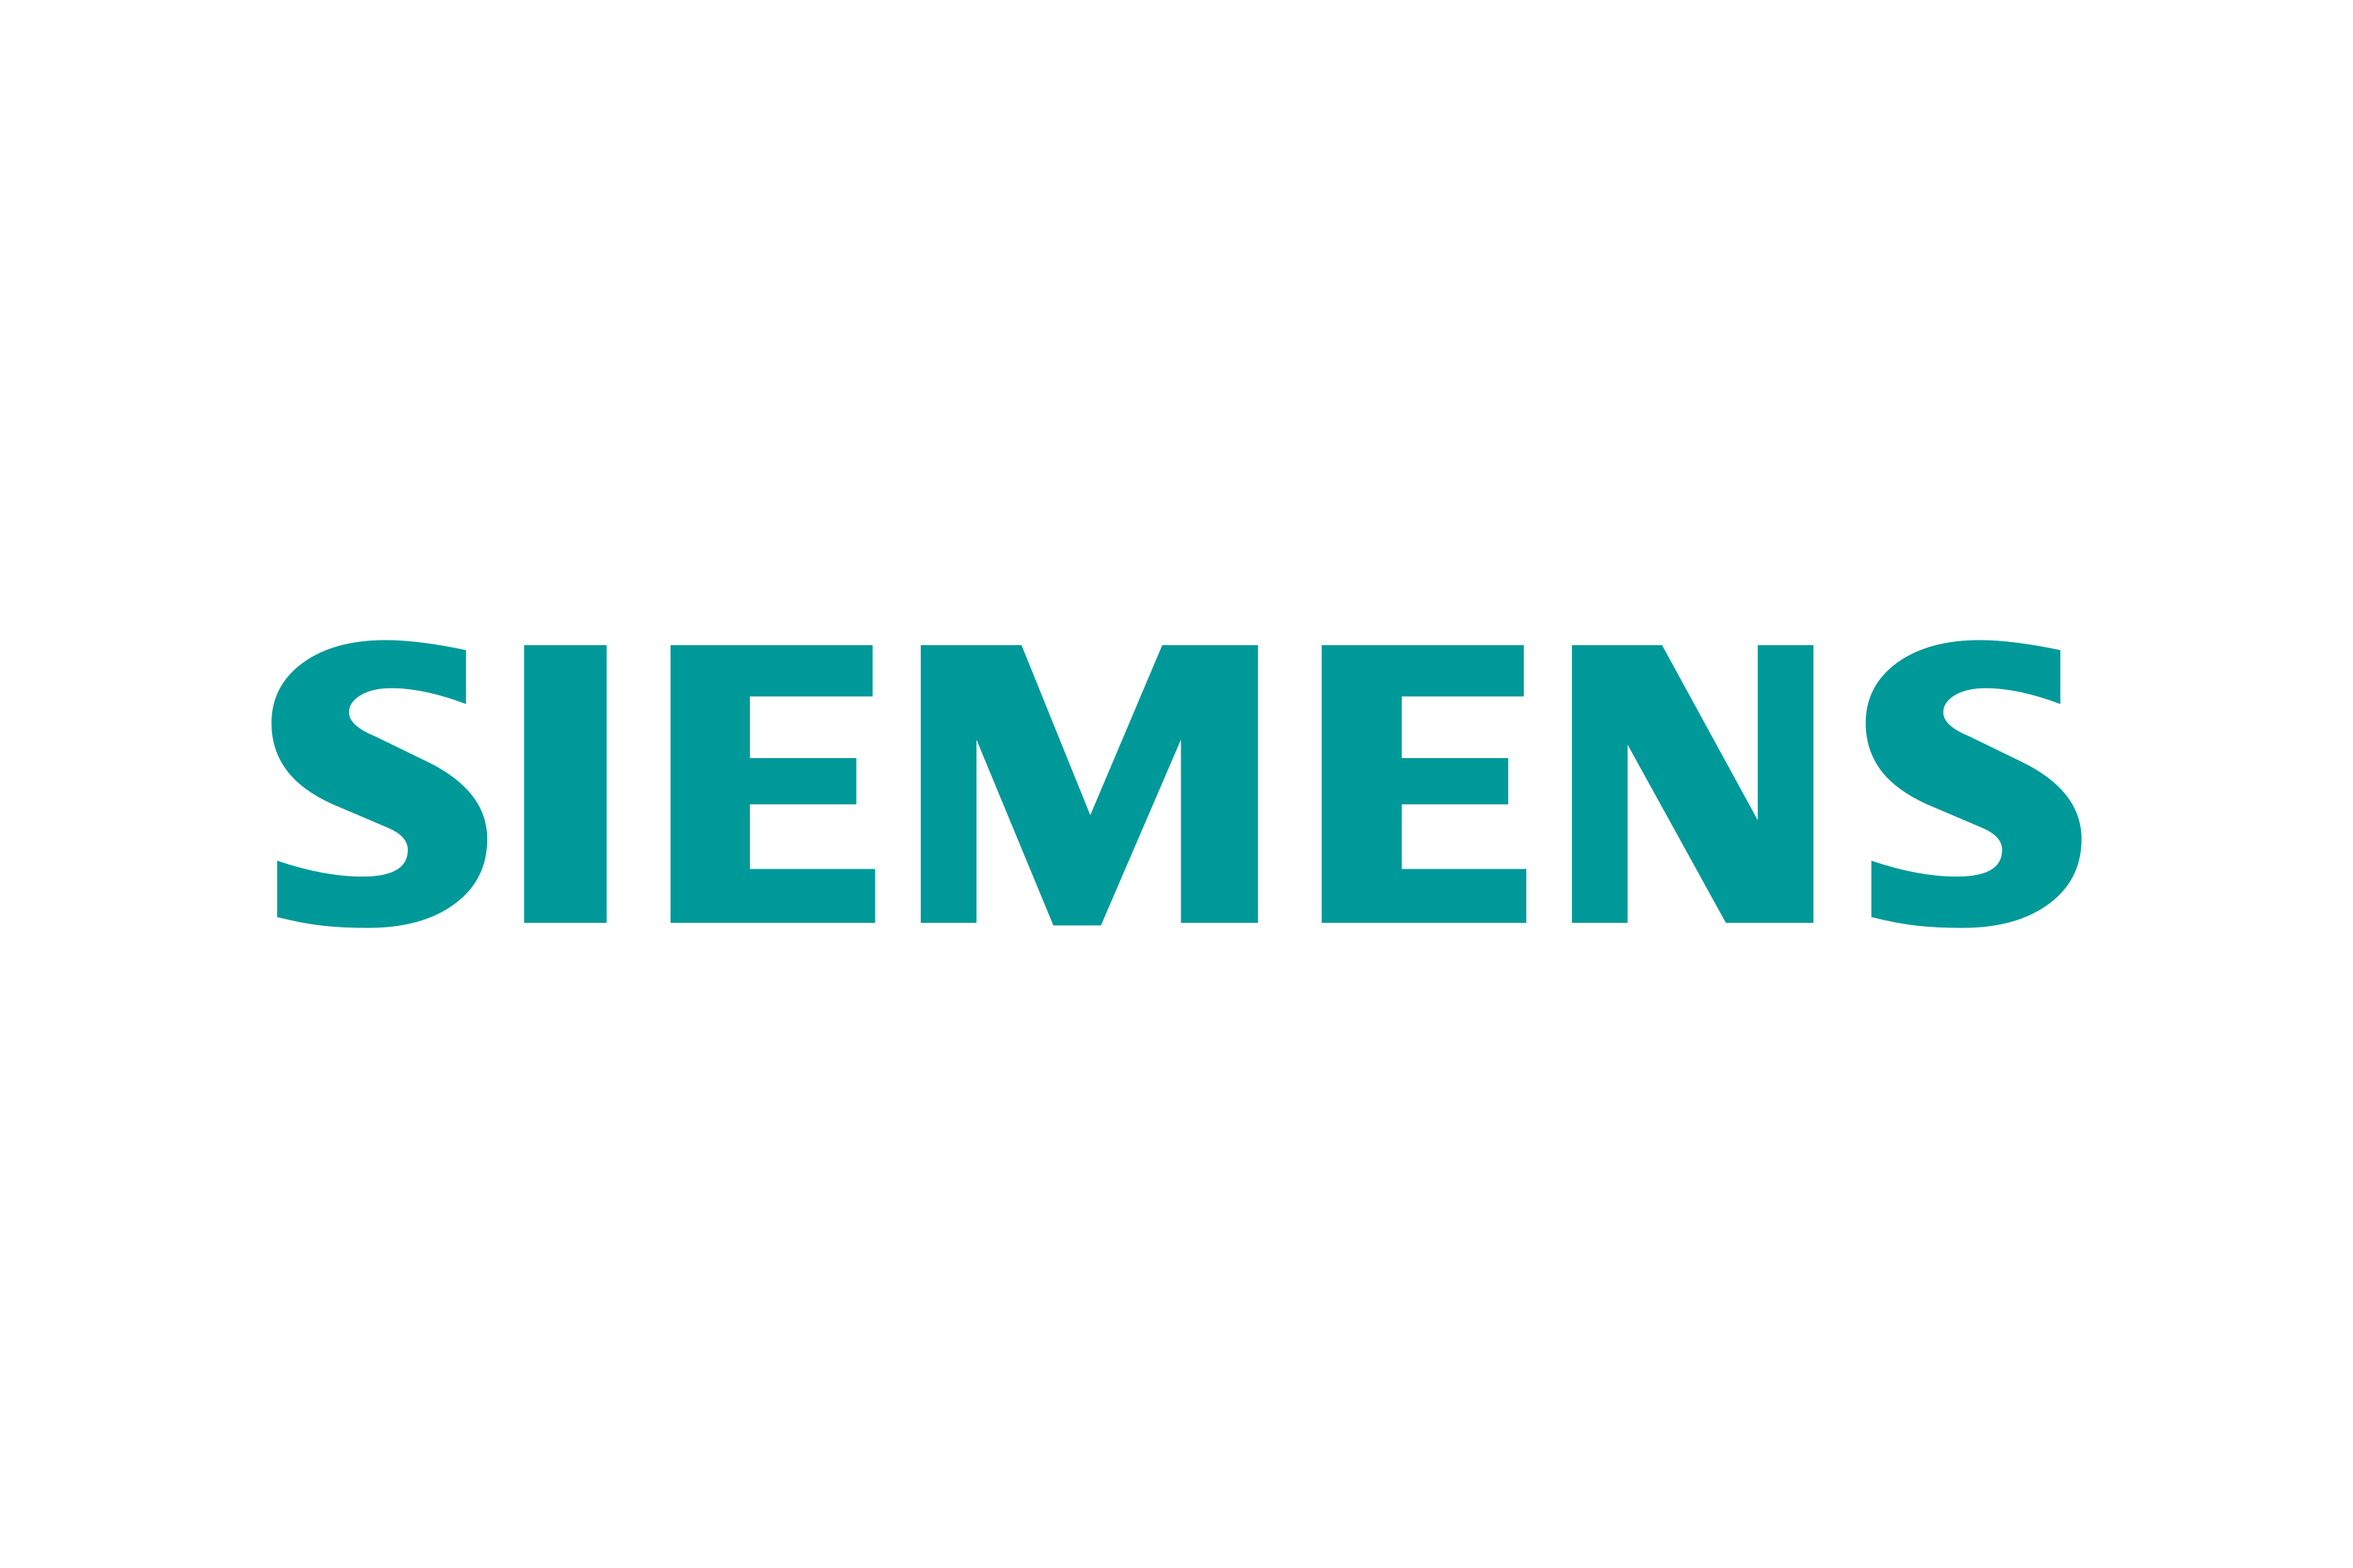
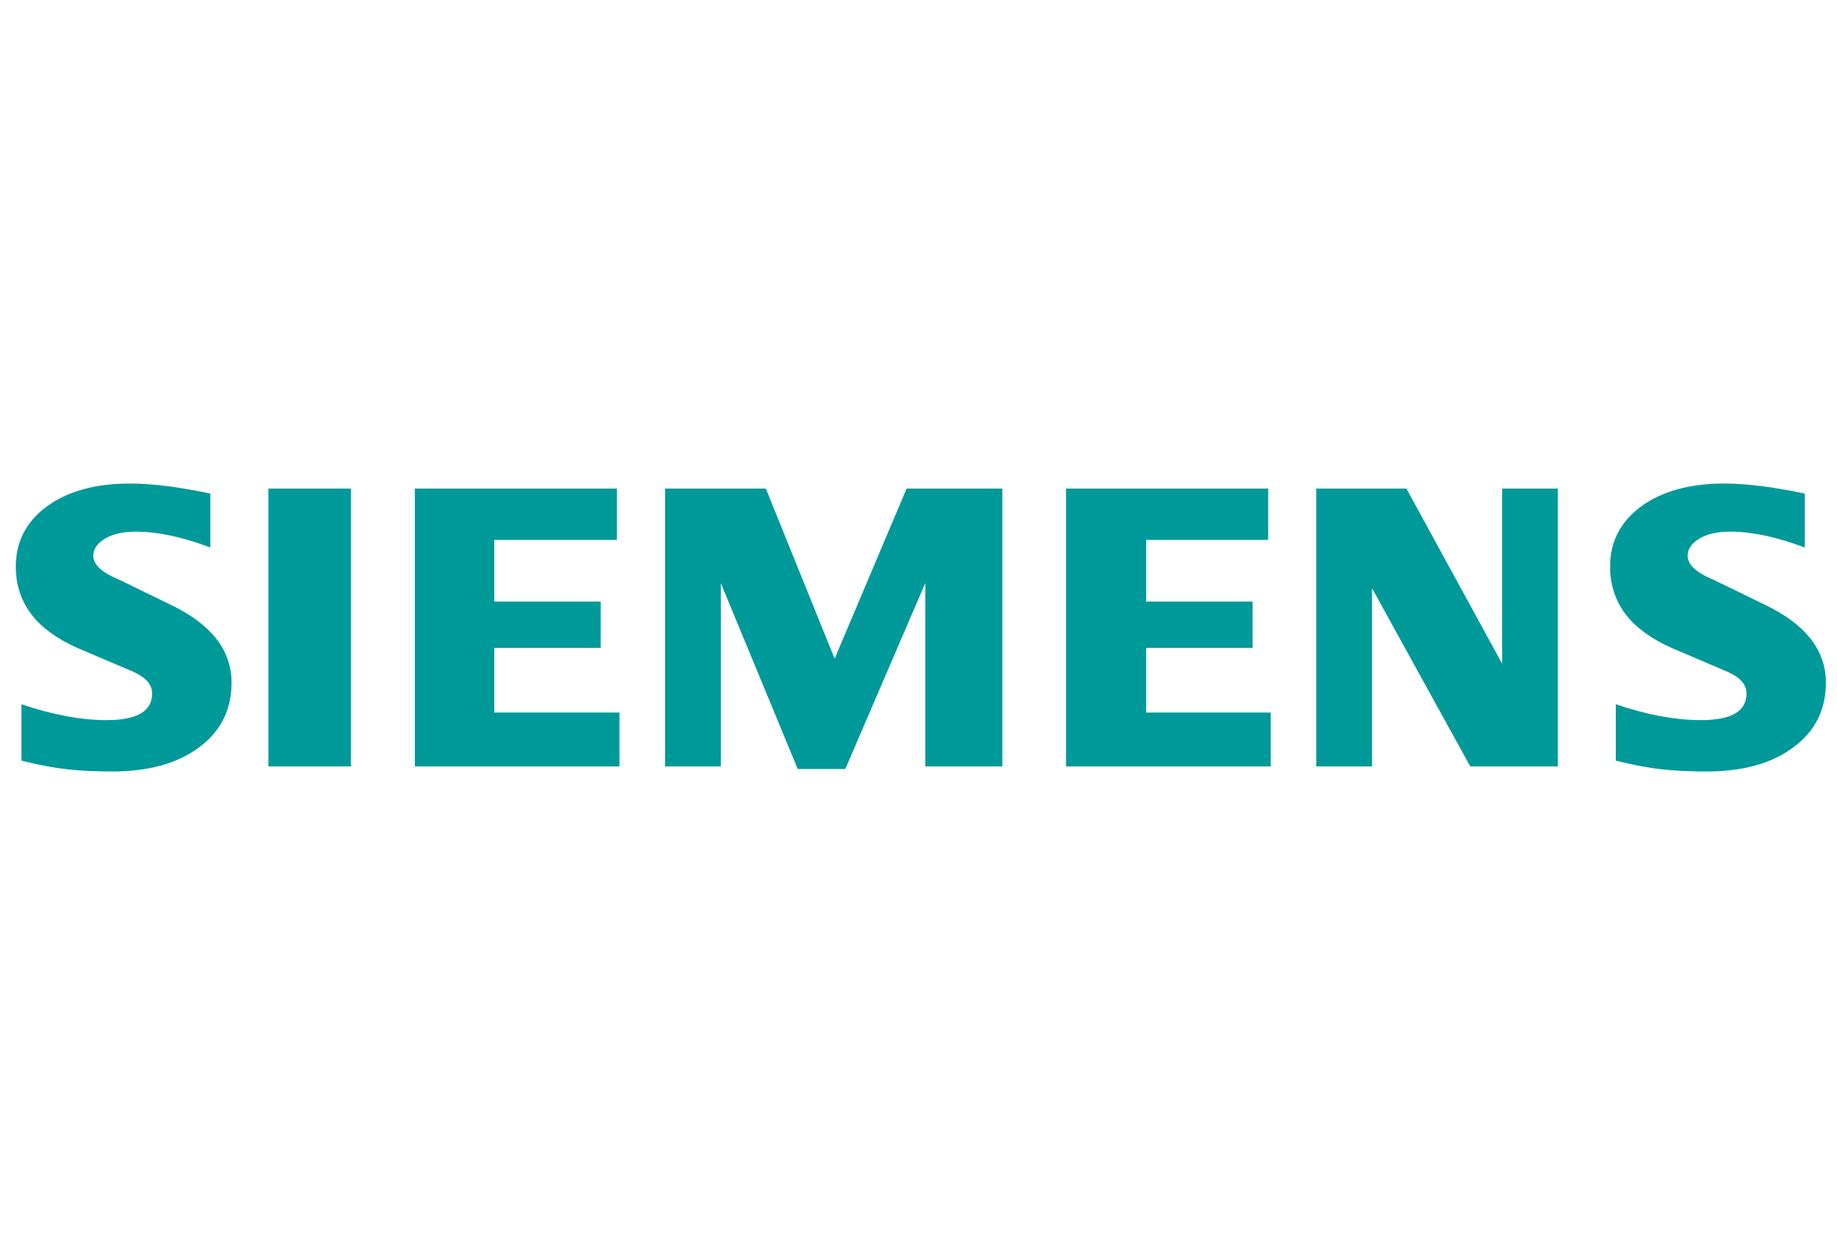
main changes

Changed region(s): [[0.0, 0.375, 0.9974, 0.625]]

diff --git a/index.html b/index.html
@@ -34,10 +34,11 @@
   <style>
     /* Style the header container for flex alignment on mobile */
     .header-container {
+      background-color: #0c9494;
       display: flex;
       justify-content: space-between;
       align-items: center;
-      padding: 1em 2em;
+      padding: 0.5em 2em;
     }
 
     /* Default (desktop) styles */
@@ -140,25 +141,35 @@
   </header>
 
   <main>
-    <!-- Home Section -->
-    <section id="home">
-      <div class="home-content">
-        <div class="home-text">
-          <h1>Welcome to Symatrix Industrial Controls</h1>
-          <h2 style="font-size: large; color:cornflowerblue;">Approved Channel Partner for L.V. Switchgear, Motors and Industrial Automation.</h2>
-          <p>
-            We specialize in providing top-notch solutions for switchgears,
-            motors, Drives, PLC, Ind Automation, VCBs, CNC Automation, Servo Motors and industrial Automation. Discover how we can empower your
-            industry with innovative technology and reliable support.
-          </p>
-          <a href="products.html" class="cta-button">Explore Our Products</a>
-        </div>
-        <div class="home-image">
-          <!-- <img src="source/1st section page/hero_home_image-removebg.png" alt="Industrial Automation" /> -->
-          <img src="source/1st section page/industrial-controls-circuit-protection.png" alt="Industrial Automation Image 2" />
-        </div>
-      </div>
-    </section>
+
+  <section id="home">
+  <!-- Logo placed at top-right -->
+  <div class="home-logo">
+    <img src="source/brands/siemens new.png" alt="Company Logo" />
+  </div>
+
+  <div class="home-content">
+    <div class="home-text">
+      <h1>Welcome to Symatrix Industrial Controls</h1>
+      <h2>Approved Channel Partner for L.V. Switchgear, Motors and Industrial Automation.</h2>
+      <p>
+        We specialize in providing top-notch solutions for switchgears, motors,
+        drives, PLC, industrial automation, VCBs, CNC automation, servo motors
+        and more. Discover how we can empower your industry with innovative
+        technology and reliable support.
+      </p>
+      <a href="products.html" class="cta-button">Explore Our Products</a>
+    </div>
+
+    <div class="home-image">
+      <img
+        src="source/1st section page/industrial-controls-circuit-protection.png"
+        alt="Industrial Automation Image"
+      />
+    </div>
+  </div>
+</section>
+
 
     <!-- (PRODUCTS SECTION REMOVED — now in products.html) -->
 
@@ -183,8 +194,8 @@
           <h3>Eaton</h3>
         </div>
         <div class="brand siemens-logo">
-          <img src="source/brands/siemens new.png" alt="Siemens" />
-          <h3>Siemens</h3>
+          <img src="source/brands/Siemens.png" alt="Siemens" />
+          <h4>L.V. Switchgear & Motors</h4>
         </div>
         <div class="brand">
             <img src="source/brands/l&t switchgear.svg" alt="l&t switchgear">

diff --git a/styles.css b/styles.css
@@ -83,7 +83,7 @@ header {
 }
 
 .logo img {
-  max-height: 50px;
+  max-height: 60px;
   width: auto;
 }
 
@@ -250,18 +250,50 @@ main {
   font-size: 3rem;
   margin-bottom: 20px;
   line-height: 1.2;
-  color: var(--color-text);
+  color: #004D40; /* Darker shade for better contrast */ 
+  text-shadow: 1px 1px 2px rgba(0, 0, 0, 0.2);
 }
 .home-text h2 {
   font-size: 1.8rem;
   margin-bottom: 20px;
-  color: var(--color-accent);
+  color: #0c9494;
+  text-shadow: 1px 1px 2px rgba(0, 0, 0, 0.2);
 }
 .home-text p {
   font-size: 1.1rem;
   margin-bottom: 20px;
   color: #555;
 }
+
+/* ===== HOME LOGO (add to bottom of file) ===== */
+
+/* Position the logo in the top-right corner of the #home section */
+.home-logo {
+  position: absolute;
+  top: 10px;
+  right: 50px;
+  z-index: 2;
+}
+
+.home-logo img {
+  max-width: 300px; /* Adjust max-width as needed */
+  height: auto; /* Maintain aspect ratio *  */
+  transition: transform var(--transition-base); 
+}
+
+/* Optional: adjust logo size/offset on smaller screens */
+@media (max-width: 768px) {
+  .home-logo {
+    top: 0px; /* Adjust top position */
+    right: 0px; /* Adjust right position */
+    padding: 10px; /* Add some padding */
+    text-align: center; /* Center align the logo */
+  }
+  .home-logo img {
+    max-width: 0px; /* Hide logo on small screens */
+  }
+}
+
 /* CTA Button */
 .cta-button {
   display: inline-block;
@@ -327,7 +359,7 @@ main {
 #brands {
   background-color: var(--bg-body);
   text-align: center;
-  color: var(--color-text);
+  color: #555;
 }
 #brands h2 {
   font-size: 2.8rem;
@@ -389,9 +421,10 @@ main {
 }
 
 .siemens-logo h3 {
-  /* color: var(--color-accent-secondary); */
+  color: #555;
   font-weight: bold;
   margin-top: 10px;
+  font-size: small;
 }
 
 /* Mobile View - Enable wrapping for brands in mobile */

diff --git a/product-styles.css b/product-styles.css
@@ -73,7 +73,7 @@ header {
 }
 
 .logo img {
-  max-height: 50px;
+  max-height: 60px;
   width: auto;
 }
 
@@ -175,11 +175,11 @@ header {
 }
 
 .container {
-  background-color: var(--bg-light);
-  display: flex;
-  justify-content: space-between;
-  align-items: center;
-  padding: 1em 2em;
+    background-color: #0c9494;
+    display: flex;
+    justify-content: space-between;
+    align-items: center;
+    padding: 0.5em 2em;
 }
 
 .logo img {
